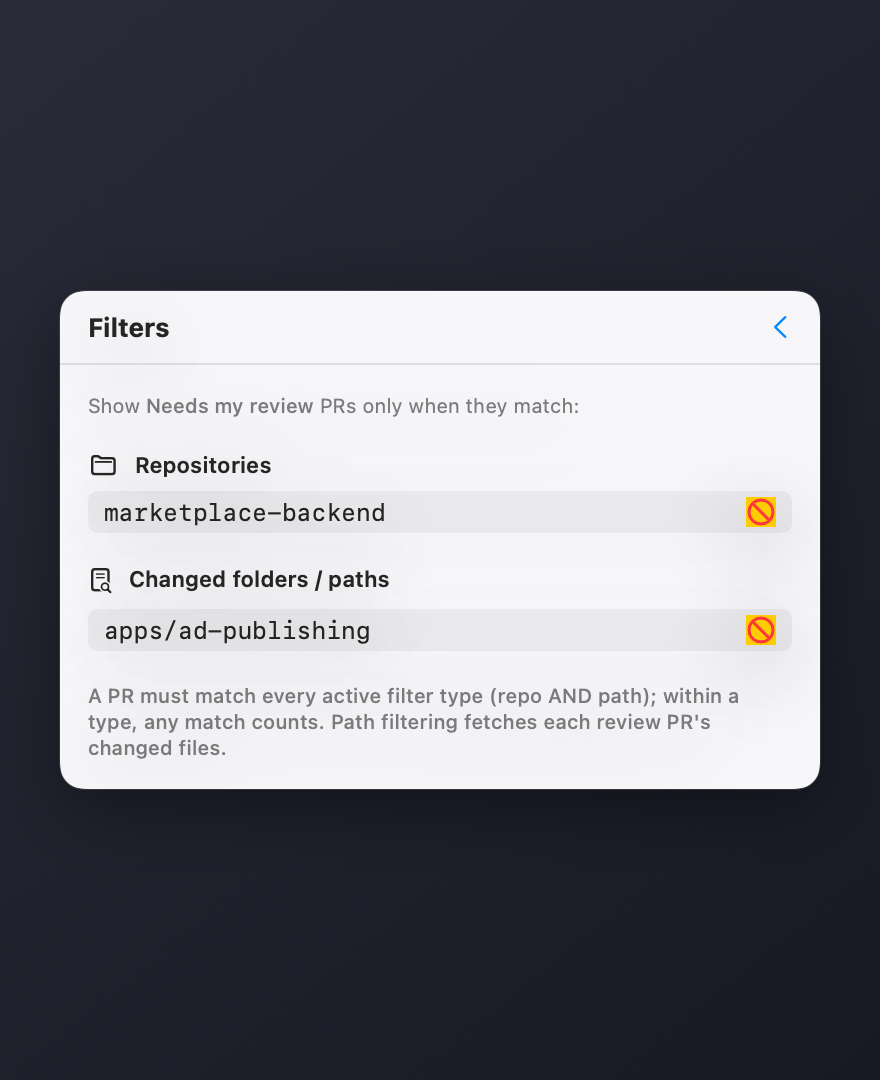
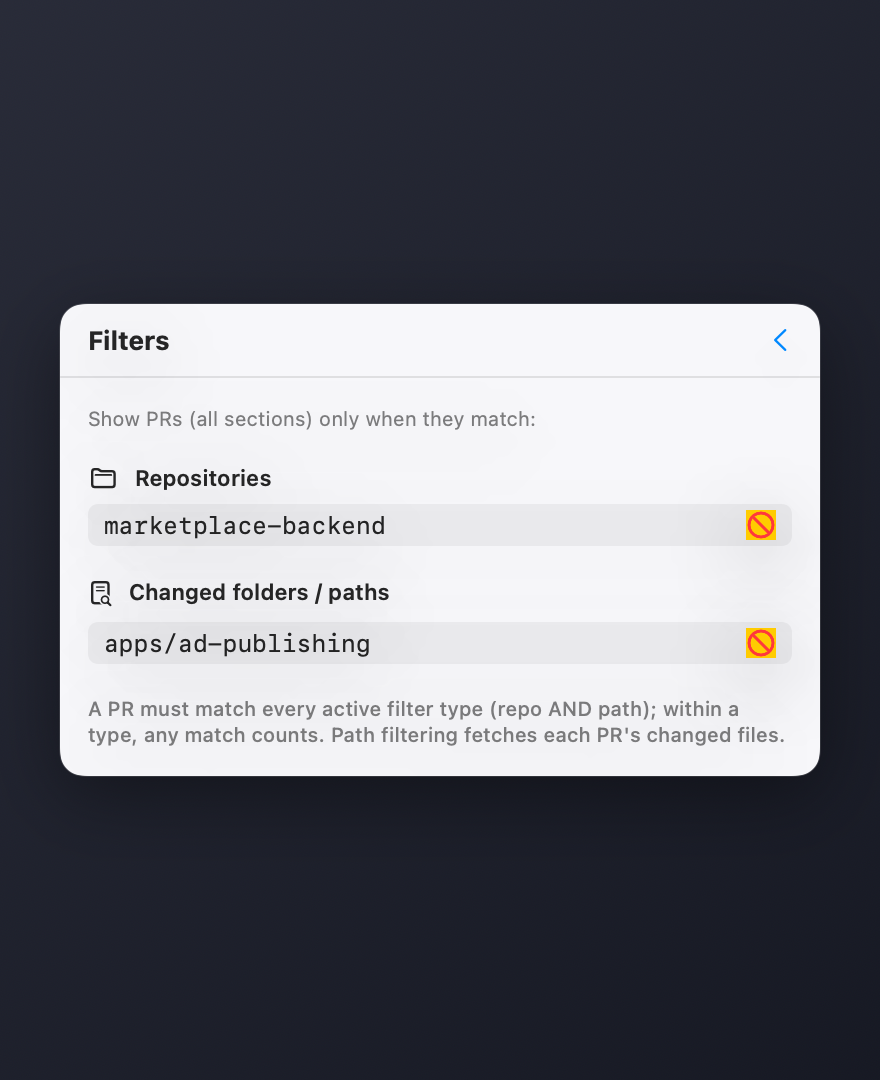
feat: apply repo/path filters to all sections, not just review
Filters now scope Needs-my-review, Created-by-me, and Committed-to. Path
filtering fetches changed files for every displayed PR (not only review PRs).
Renamed settings to repoFilters/pathFilters with one-time migration from the
old review-only keys so existing filters are preserved.

diff --git a/Sources/PRism/AppSettings.swift b/Sources/PRism/AppSettings.swift
@@ -3,51 +3,54 @@ import Combine
 
 /// User-configurable settings, persisted to `UserDefaults`.
 ///
-/// Currently scopes the *Needs my review* list by repository and by changed
-/// folder/path. A review PR is shown only when it satisfies every active filter
-/// type (repo AND path); within a type, matching any entry is enough.
+/// Scopes every PR section by repository and by changed folder/path. A PR is
+/// shown only when it satisfies every active filter type (repo AND path); within
+/// a type, matching any entry is enough.
 @MainActor
 final class AppSettings: ObservableObject {
-    @Published var reviewRepoFilters: [String] { didSet { persist() } }
-    @Published var reviewPathFilters: [String] { didSet { persist() } }
+    @Published var repoFilters: [String] { didSet { persist() } }
+    @Published var pathFilters: [String] { didSet { persist() } }
 
-    private let repoKey = "prism.reviewRepoFilters"
-    private let pathKey = "prism.reviewPathFilters"
+    private let repoKey = "prism.repoFilters"
+    private let pathKey = "prism.pathFilters"
+    // Legacy keys (filters used to be review-only); read once for migration.
+    private let legacyRepoKey = "prism.reviewRepoFilters"
+    private let legacyPathKey = "prism.reviewPathFilters"
     private let defaults = UserDefaults.standard
     private let persisting: Bool
 
     init(persisting: Bool = true) {
         // Set before the @Published assignments so didSet's persist() is gated.
         self.persisting = persisting
-        reviewRepoFilters = defaults.stringArray(forKey: repoKey) ?? []
-        reviewPathFilters = defaults.stringArray(forKey: pathKey) ?? []
+        repoFilters = defaults.stringArray(forKey: repoKey) ?? defaults.stringArray(forKey: legacyRepoKey) ?? []
+        pathFilters = defaults.stringArray(forKey: pathKey) ?? defaults.stringArray(forKey: legacyPathKey) ?? []
     }
 
     #if DEBUG
     /// A non-persisting instance pre-seeded with sample filters, for screenshots.
     static func previewSeeded() -> AppSettings {
         let settings = AppSettings(persisting: false)
-        settings.reviewRepoFilters = ["marketplace-backend"]
-        settings.reviewPathFilters = ["apps/ad-publishing"]
+        settings.repoFilters = ["marketplace-backend"]
+        settings.pathFilters = ["apps/ad-publishing"]
         return settings
     }
     #endif
 
-    var hasPathFilters: Bool { !reviewPathFilters.isEmpty }
-    var hasAnyReviewFilter: Bool { !reviewRepoFilters.isEmpty || !reviewPathFilters.isEmpty }
+    var hasPathFilters: Bool { !pathFilters.isEmpty }
+    var hasAnyFilter: Bool { !repoFilters.isEmpty || !pathFilters.isEmpty }
 
-    func addRepo(_ value: String) { add(clean(value), to: \.reviewRepoFilters) }
-    func removeRepo(_ value: String) { reviewRepoFilters.removeAll { $0 == value } }
-    func addPath(_ value: String) { add(clean(value), to: \.reviewPathFilters) }
-    func removePath(_ value: String) { reviewPathFilters.removeAll { $0 == value } }
+    func addRepo(_ value: String) { add(clean(value), to: \.repoFilters) }
+    func removeRepo(_ value: String) { repoFilters.removeAll { $0 == value } }
+    func addPath(_ value: String) { add(clean(value), to: \.pathFilters) }
+    func removePath(_ value: String) { pathFilters.removeAll { $0 == value } }
 
-    /// Whether a review PR passes the active filters.
-    func keepReview(_ pr: PullRequest) -> Bool {
-        let repoOK = reviewRepoFilters.isEmpty
-            || reviewRepoFilters.contains { pr.repo.range(of: $0, options: .caseInsensitive) != nil }
-        let pathOK = reviewPathFilters.isEmpty
+    /// Whether a PR passes the active filters.
+    func keep(_ pr: PullRequest) -> Bool {
+        let repoOK = repoFilters.isEmpty
+            || repoFilters.contains { pr.repo.range(of: $0, options: .caseInsensitive) != nil }
+        let pathOK = pathFilters.isEmpty
             || pr.changedPaths.contains { path in
-                reviewPathFilters.contains { path.range(of: $0, options: .caseInsensitive) != nil }
+                pathFilters.contains { path.range(of: $0, options: .caseInsensitive) != nil }
             }
         return repoOK && pathOK
     }
@@ -63,7 +66,7 @@ final class AppSettings: ObservableObject {
 
     private func persist() {
         guard persisting else { return }
-        defaults.set(reviewRepoFilters, forKey: repoKey)
-        defaults.set(reviewPathFilters, forKey: pathKey)
+        defaults.set(repoFilters, forKey: repoKey)
+        defaults.set(pathFilters, forKey: pathKey)
     }
 }

diff --git a/Sources/PRism/PRStore.swift b/Sources/PRism/PRStore.swift
@@ -18,10 +18,12 @@ final class PRStore: ObservableObject {
     private var timer: Timer?
     private var started = false
 
-    /// Unfiltered review PRs; `reviewRequested` is the filtered view of this.
+    /// Unfiltered PRs; the published arrays are the filtered views of these.
     private var rawReview: [PullRequest] = []
-    /// Whether the last fetch included changed-path data for review PRs.
-    private var reviewFilesLoaded = false
+    private var rawAuthored: [PullRequest] = []
+    private var rawCommitted: [PullRequest] = []
+    /// Whether the last fetch included changed-path data (needed for path filters).
+    private var filesLoaded = false
 
     private var settings: AppSettings?
     private var cancellables = Set<AnyCancellable>()
@@ -79,31 +81,35 @@ final class PRStore: ObservableObject {
 
         let needFiles = settings?.hasPathFilters ?? false
         do {
-            let prs = markUnread(try await service.fetchPullRequests(reviewPathFiltering: needFiles))
-            reviewFilesLoaded = needFiles
+            let prs = markUnread(try await service.fetchPullRequests(pathFiltering: needFiles))
+            filesLoaded = needFiles
             rawReview = prs.filter { $0.relation == .reviewRequested }
-            authored = prs.filter { $0.relation == .authored }
-            committed = prs.filter { $0.relation == .committed }
-            applyReviewFilter()
+            rawAuthored = prs.filter { $0.relation == .authored }
+            rawCommitted = prs.filter { $0.relation == .committed }
+            applyFilters()
             lastUpdated = Date()
         } catch {
             errorMessage = error.localizedDescription
         }
     }
 
-    /// Re-derive the visible review list from `rawReview` using current settings.
-    private func applyReviewFilter() {
-        if let settings {
-            reviewRequested = rawReview.filter(settings.keepReview)
-        } else {
+    /// Re-derive the visible lists from the raw lists using current settings.
+    private func applyFilters() {
+        guard let settings else {
             reviewRequested = rawReview
+            authored = rawAuthored
+            committed = rawCommitted
+            return
         }
+        reviewRequested = rawReview.filter(settings.keep)
+        authored = rawAuthored.filter(settings.keep)
+        committed = rawCommitted.filter(settings.keep)
     }
 
     /// Settings changed: re-filter immediately; refetch if path data is now needed.
     private func onSettingsChanged() {
-        applyReviewFilter()
-        if (settings?.hasPathFilters ?? false) && !reviewFilesLoaded {
+        applyFilters()
+        if (settings?.hasPathFilters ?? false) && !filesLoaded {
             Task { await refresh() }
         }
     }

diff --git a/Sources/PRism/MenuContent.swift b/Sources/PRism/MenuContent.swift
@@ -53,9 +53,11 @@ struct MenuContent: View {
     private var list: some View {
         VStack(alignment: .leading, spacing: 12) {
             section(title: "Needs my review", prs: store.reviewRequested,
-                    filtered: settings.hasAnyReviewFilter)
-            section(title: "Created by me", prs: store.authored)
-            section(title: "Committed to", prs: store.committed)
+                    filtered: settings.hasAnyFilter)
+            section(title: "Created by me", prs: store.authored,
+                    filtered: settings.hasAnyFilter)
+            section(title: "Committed to", prs: store.committed,
+                    filtered: settings.hasAnyFilter)
         }
         .padding(.vertical, 8)
     }
@@ -188,7 +190,7 @@ struct SettingsPanel: View {
 
     var body: some View {
         let content = VStack(alignment: .leading, spacing: 16) {
-            Text("Show **Needs my review** PRs only when they match:")
+            Text("Show PRs (all sections) only when they match:")
                 .font(.caption)
                 .foregroundStyle(.secondary)
 
@@ -196,7 +198,7 @@ struct SettingsPanel: View {
                 title: "Repositories",
                 systemImage: "folder",
                 placeholder: "e.g. marketplace-backend",
-                items: settings.reviewRepoFilters,
+                items: settings.repoFilters,
                 interactive: interactive,
                 onAdd: settings.addRepo,
                 onRemove: settings.removeRepo
@@ -206,7 +208,7 @@ struct SettingsPanel: View {
                 title: "Changed folders / paths",
                 systemImage: "doc.text.magnifyingglass",
                 placeholder: "e.g. apps/ad-publishing",
-                items: settings.reviewPathFilters,
+                items: settings.pathFilters,
                 interactive: interactive,
                 onAdd: settings.addPath,
                 onRemove: settings.removePath
@@ -230,7 +232,7 @@ struct SettingsPanel: View {
     private var footnote: String {
         var parts = ["A PR must match every active filter type (repo AND path); within a type, any match counts."]
         if settings.hasPathFilters {
-            parts.append("Path filtering fetches each review PR's changed files.")
+            parts.append("Path filtering fetches each PR's changed files.")
         }
         return parts.joined(separator: " ")
     }

diff --git a/Sources/PRism/GitHubService.swift b/Sources/PRism/GitHubService.swift
@@ -100,9 +100,9 @@ struct GitHubService {
 
     /// Fetch and classify all relevant open PRs, enriched with CI status.
     ///
-    /// When `reviewPathFiltering` is true, the changed file paths of review PRs
+    /// When `pathFiltering` is true, the changed file paths of every displayed PR
     /// are also fetched so the UI can filter by folder.
-    func fetchPullRequests(reviewPathFiltering: Bool = false) async throws -> [PullRequest] {
+    func fetchPullRequests(pathFiltering: Bool = false) async throws -> [PullRequest] {
         let ghPath = resolveGhPath() ?? "gh"
         let formatter = ISO8601DateFormatter()
 
@@ -160,12 +160,10 @@ struct GitHubService {
             return copy
         }
 
-        // D. (optional) Fetch changed paths for review PRs to support folder filtering.
-        if reviewPathFiltering {
-            let reviewIDs = results.filter { $0.relation == .reviewRequested }.map(\.id)
-            let paths = try await fetchChangedPaths(ghPath: ghPath, ids: reviewIDs)
+        // D. (optional) Fetch changed paths for all displayed PRs for folder filtering.
+        if pathFiltering {
+            let paths = try await fetchChangedPaths(ghPath: ghPath, ids: results.map(\.id))
             results = results.map { pr in
-                guard pr.relation == .reviewRequested else { return pr }
                 var copy = pr
                 copy.changedPaths = paths[pr.id] ?? []
                 return copy

diff --git a/README.md b/README.md
@@ -34,7 +34,7 @@ mentions, assignments-only) filtered out. Click any row to jump straight to it.
 - 🔵 **Unread dots** — highlights PRs with new activity since you last looked
 - 🗂️ **Open all** in the browser with one click
 - 📋 **Copy link or branch** — hover any PR to copy its URL or branch name to the clipboard
-- 🔍 **Filters** — scope *Needs my review* by repository and by changed folder/path
+- 🔍 **Filters** — scope every section by repository and by changed folder/path
 - 🔄 Auto-refreshes every 3 minutes, plus a manual refresh button
 - 🖱️ Click any PR to open it in your browser
 - 🚫 No Dock icon, no clutter — pure menu bar agent
@@ -56,24 +56,23 @@ mergeability in one batched call.
 Because it uses `gh`, there are no API tokens stored in the app — it relies on
 whatever account you've authenticated with `gh auth login`.
 
-## Filtering your review list
+## Filtering
 
-If your *Needs my review* queue is noisy, open the filter panel (the slider icon
-in the header) and scope it down:
+If your lists get noisy, open the filter panel (the slider icon in the header)
+and scope **all sections** down:
 
 <p align="center">
   <img src="docs/settings.png" alt="PRism filter panel" width="320">
 </p>
 
-- **Repositories** — only show review PRs from matching repos (substring match,
+- **Repositories** — only show PRs from matching repos (substring match,
   e.g. `marketplace-backend`).
-- **Changed folders / paths** — only show review PRs that touch a matching path
+- **Changed folders / paths** — only show PRs that touch a matching path
   (e.g. `apps/ad-publishing`).
 
 A PR must satisfy every active filter *type* (repo **and** path); within a type,
-matching any entry is enough. Path filtering fetches each review PR's changed
-files, so it's only requested when a path filter is set. Filters persist across
-launches.
+matching any entry is enough. Path filtering fetches each PR's changed files, so
+it's only requested when a path filter is set. Filters persist across launches.
 
 ## Requirements
 